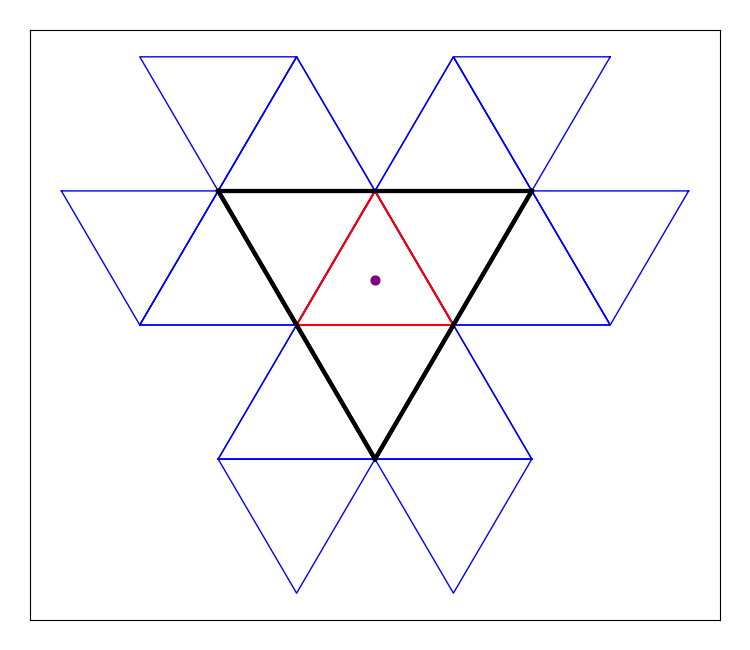
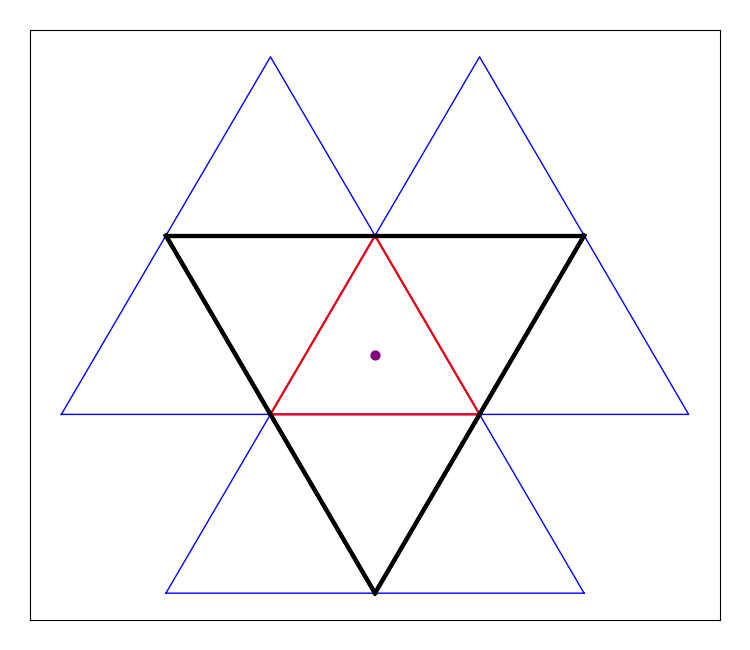
stuff

diff --git a/src/polyhedra.py b/src/polyhedra.py
@@ -29,6 +29,7 @@ class ConvexPolyhderon(Shape):
                             diameter,
                             do_filter=True,
                             intersect_with_face=True,
+                            ignore_points_on_locus=False,
                             ):
         """
         implementaiton of algorithm 3
@@ -40,12 +41,14 @@ class ConvexPolyhderon(Shape):
         vp, bound_paths = self.get_voronoi_points_from_face_paths(p, source_fn, sink_fn, diameter=diameter)
 
         if len(vp) >= 2:  # if there is only one point, the cut locus does not exist on this face
-            relevant_points, relevant_bound_paths, relevant_cells = self.filter_out_points(vp,
-                                                                                           bound_paths,
-                                                                                           self.faces[source_fn],
-                                                                                           self.faces[sink_fn],
-                                                                                           do_filter=do_filter,
-                                                                                           )
+            relevant_points, relevant_bound_paths, relevant_cells = self.filter_out_points(
+                vp,
+                bound_paths,
+                self.faces[source_fn],
+                self.faces[sink_fn],
+                do_filter=do_filter,
+                ignore_points_on_locus=ignore_points_on_locus,
+            )
             if relevant_points is None:
                 return None
             points = np.concatenate(relevant_points, axis=1)
@@ -65,6 +68,7 @@ class ConvexPolyhderon(Shape):
                                    ax=None,
                                    do_filter=True,
                                    diameter=None,
+                                   ignore_points_on_locus=False,
                                    ):
         """
         unfold fixing the source face
@@ -83,6 +87,7 @@ class ConvexPolyhderon(Shape):
                                                            diameter=diameter,
                                                            do_filter=do_filter,
                                                            intersect_with_face=True,
+                                                           ignore_points_on_locus=ignore_points_on_locus,
                                                            )
                 if voronoi_diagram is not None:
                     point_pair_to_segment, (relevant_points, _, _) = voronoi_diagram
@@ -100,6 +105,7 @@ class ConvexPolyhderon(Shape):
                                                            diameter=diameter,
                                                            do_filter=do_filter,
                                                            intersect_with_face=True,
+                                                           ignore_points_on_locus=ignore_points_on_locus,
                                                            )
                 if voronoi_diagram is not None:
                     (point_pair_to_segment,
@@ -238,6 +244,7 @@ class ConvexPolyhderon(Shape):
                                  p_label_shift=(0., 0.),
                                  line_label_dist=.3,
                                  point_names=None,
+                                 ignore_points_on_locus=False,
                                  ):
         # TODO: maybe do the same thing as above method, calculate cut locus for all faces, paste them together
         """
@@ -266,6 +273,7 @@ class ConvexPolyhderon(Shape):
                                                    diameter=diameter,
                                                    do_filter=do_filter,
                                                    intersect_with_face=False,
+                                                   ignore_points_on_locus=ignore_points_on_locus,
                                                    )
         if voronoi_diagram is None:
             # cut locus does not exist on this face
@@ -426,6 +434,7 @@ class ConvexPolyhderon(Shape):
                      do_filter=True,
                      plot_endpoints=False,
                      zorder=None,
+                     ignore_points_on_locus=False,
                      ):
         """
         creates a voronoi plot for the sink face from p on a souce face
@@ -443,7 +452,8 @@ class ConvexPolyhderon(Shape):
                                                    sink_fn=sink_fn,
                                                    diameter=diameter,
                                                    do_filter=do_filter,
-                                                   intersect_with_face=True
+                                                   intersect_with_face=True,
+                                                   ignore_points_on_locus=ignore_points_on_locus,
                                                    )
         if voronoi_diagram is not None:
             point_pair_to_seg, _ = voronoi_diagram
@@ -549,6 +559,7 @@ class ConvexPolyhderon(Shape):
                                 save=None,
                                 do_filter=True,
                                 font_size=None,
+                                ignore_points_on_locus=False,
                                 ):
         """
         :param figsize: initial figure size (inches)
@@ -615,6 +626,7 @@ class ConvexPolyhderon(Shape):
                                           do_filter=do_filter,
                                           plot_endpoints=False,
                                           zorder=10,
+                                          ignore_points_on_locus=ignore_points_on_locus,
                                           )
                         ploot(i, j).set_xlim(xlim)
                         ploot(i, j).set_ylim(ylim)
@@ -679,6 +691,7 @@ class ConvexPolyhderon(Shape):
                            line_label_dist=.3,
                            point_names=None,
                            from_source=False,
+                           ignore_points_on_locus=False,
                            ):
         """
         :param figsize: initial figure size (inches)
@@ -760,6 +773,7 @@ class ConvexPolyhderon(Shape):
                                                     ax=plt.gca(),
                                                     do_filter=do_filter,
                                                     diameter=diameter,
+                                                    ignore_points_on_locus=ignore_points_on_locus,
                                                     )
 
                     plt.xticks([])
@@ -780,6 +794,7 @@ class ConvexPolyhderon(Shape):
                         p_label_shift=p_label_shift,
                         line_label_dist=line_label_dist,
                         point_names=point_names,
+                        ignore_points_on_locus=ignore_points_on_locus,
                     )
                     print('point locations:')
                     for i, (zero, xvec, yvec, p) in enumerate(all_trans_shown):
@@ -825,8 +840,13 @@ class ConvexPolyhderon(Shape):
                             face = face_map(i, j)
                             if face is not None:
                                 xlim, ylim = ploot(i, j).get_xlim(), ploot(i, j).get_ylim()
-                                self.plot_voronoi(self.extra_data['p'], self.extra_data['unwrap_source_fn'], face.name,
-                                                  diameter=diameter, ax=ploot(i, j), do_filter=do_filter)
+                                self.plot_voronoi(self.extra_data['p'],
+                                                  self.extra_data['unwrap_source_fn'], face.name,
+                                                  diameter=diameter,
+                                                  ax=ploot(i, j),
+                                                  do_filter=do_filter,
+                                                  ignore_points_on_locus=ignore_points_on_locus,
+                                                  )
                                 ploot(i, j).set_xlim(xlim)
                                 ploot(i, j).set_ylim(ylim)
                                 if self.extra_data['unwrap_source_fn'] == face.name:
@@ -879,8 +899,14 @@ class ConvexPolyhderon(Shape):
                     face = face_map(i, j)
                     if face is not None:
                         xlim, ylim = ploot(i, j).get_xlim(), ploot(i, j).get_ylim()
-                        self.plot_voronoi(p, source_fn, face.name, diameter=diameter, ax=ploot(i, j),
-                                          do_filter=do_filter)
+                        self.plot_voronoi(p,
+                                          source_fn,
+                                          face.name,
+                                          diameter=diameter,
+                                          ax=ploot(i, j),
+                                          do_filter=do_filter,
+                                          ignore_points_on_locus=ignore_points_on_locus,
+                                          )
                         ploot(i, j).set_xlim(xlim)
                         ploot(i, j).set_ylim(ylim)
             plt.show()
@@ -899,8 +925,15 @@ class ConvexPolyhderon(Shape):
         if show:
             plt.show()
 
-    def plot_faces(self, save_image=None, show=False, figsize=None, legend=lambda i, j: True, voronoi=None,
-                   do_filter=True):
+    def plot_faces(self,
+                   save_image=None,
+                   show=False,
+                   figsize=None,
+                   legend=lambda i, j: True,
+                   voronoi=None,
+                   do_filter=True,
+                   ignore_points_on_locus=False,
+                   ):
         """
         plots all faces of graph
         :param save_image: whether to save the image
@@ -935,8 +968,14 @@ class ConvexPolyhderon(Shape):
                     if voronoi is not None:
                         # ignore_locus_points = self.plot_voronoi(face.name, ploot(i, j))
                         (p, source_fn, diameter) = voronoi
-                        ignore_locus_points = self.plot_voronoi(p, source_fn, face.name, diameter=diameter,
-                                                                ax=ploot(i, j), do_filter=do_filter)
+                        ignore_locus_points = self.plot_voronoi(p,
+                                                                source_fn,
+                                                                face.name,
+                                                                diameter=diameter,
+                                                                ax=ploot(i, j),
+                                                                do_filter=do_filter,
+                                                                ignore_points_on_locus=ignore_points_on_locus,
+                                                                )
                         ploot(i, j).set_xlim(xlim)
                         ploot(i, j).set_ylim(ylim)
 

diff --git a/src/shapes.py b/src/shapes.py
@@ -260,8 +260,7 @@ class Shape:
                 return False
         return True
 
-    def filter_out_points(self, points, bound_paths, source, sink, do_filter=True):
-        # TODO: dont use vornoiplot2d
+    def filter_out_points(self, points, bound_paths, source, sink, do_filter=True, ignore_points_on_locus=False):
         """
         repeatedly makes voronoi complices, looks at relevant points, then filters out points that do not pass through correct faces
         Note: this augments points by placing 4 very distant points that do not affect the relevant section of the complex
@@ -272,6 +271,7 @@ class Shape:
         :param sink: sink face
         :param do_filter: whether to filter the points
                     probably only set to false when surface is not polyhedra (i.e. torus or mirror)
+        :param ignore_points_on_locus: whether to ignore single points on cut locus
         :return: list of points and bound paths that are relevant, augmented by four bounding points that are very far away
         """
 
@@ -313,7 +313,6 @@ class Shape:
             points = np.concatenate(vp, axis=1)
             points = points.T
             # find the cell complex of them
-            # fig, point_to_segments = voronoi_plot_2d(points, ax=None)
             point_to_segments = dict()
             for point_pair, (seg_type, (a, b)) in voronoi_diagram_calc(points=points).items():
                 for pt in point_pair:
@@ -353,7 +352,10 @@ class Shape:
                     continue
                 for a, b in point_to_segments[p_idx]:
                     # if any line of the point's voronoi cell is in face F, we call this point relevant and continue
-                    if sink.line_within_bounds(a.reshape((2, 1)), b.reshape((2, 1))):
+                    if sink.line_within_bounds(a.reshape((2, 1)),
+                                               b.reshape((2, 1)),
+                                               ignore_points=ignore_points_on_locus,
+                                               ):
                         relevant_points.append(point.T)
                         relevant_bound_paths.append(bound_paths[p_idx])
                         relevant_cells.append(point_to_segments[p_idx])

diff --git a/src/face.py b/src/face.py
@@ -188,15 +188,30 @@ class Face:
             return None
         return q
 
-    def line_within_bounds(self, p, q):
+    def line_within_bounds(self, p, q, ignore_points):
         """
         returns if any part of the line p->q is within the face
         :param p: column vector (np array of dimension (self.dimension,1))
         :param q: column vector (np array of dimension (self.dimension,1))
         :return: boolean
         """
-        # enough to test whether either of the endpoints are within the bounds or if the line exits the face
-        return self.within_bounds(p) or self.within_bounds(q) or (self.get_exit_point(p, q - p) is not None)
+        if ignore_points:
+            if not self.within_bounds(p):
+                p = self.get_exit_point(q, p - q)
+            if p is None:
+                # if p is not within bounds and the line q->p does not exit face, this line is not in face
+                return False
+            if not self.within_bounds(q):
+                q = self.get_exit_point(p, q - p)
+            if q is None:
+                return False
+            if q is None:
+                return False
+            # check if the two endpoints are far enough apart
+            return np.linalg.norm(p - q) > self.tol
+        else:
+            # enough to test whether either of the endpoints are within the bounds or if the line exits the face
+            return self.within_bounds(p) or self.within_bounds(q) or (self.get_exit_point(p, q - p) is not None)
 
     def get_ray_within_bounds(self, p, direction):
         """
@@ -229,9 +244,9 @@ class Face:
             return None
         # weird error due to tolerance
         if qp is None:
-            qp=pp
+            qp = pp
         if pp is None:
-            pp=qp
+            pp = qp
         return (pp, qp)
 
     def add_boundary_paired(self, f2, m, b, s, T, si):

diff --git a/symbolic_calculations/octahedron_symbolic.py b/symbolic_calculations/octahedron_symbolic.py
@@ -48,15 +48,13 @@ for i in range(6):
         direction = [exp_simplify(t) for t in direction]
         print('\\item')
         print('$\\ell^{\\{',i,',',j,'\\}}(p) := t \\mapsto ',
-              latexify(start_point),'+', latexify(direction),'t$')
+              latexify(start_point),'+', latexify(direction),'t$.')
 quit()
-
 X = get_all_triple_points(points)
-print(exp_simplify(points))
+print('points')
 for p in exp_simplify(points):
     print(latexify(p))
 print()
-
 for i in range(N):
     j = (i + 1)%N
     print('line L' + str(i) + str(j))
@@ -123,15 +121,16 @@ x05 = line_intersection(right_face, L[0][5])
 print(exp_simplify(x05))
 print(latexify(exp_simplify(x05)))
 print()
-
+print()
+print('triple points')
 for a, b, c in combinations(range(6), 3):
     abc = sorted([a, b, c])
     tup = str((a, b, c))[1:-1]
     print()
-    print('equation of x^{' + tup + '}')
-    print(exp_simplify(X[a][b][c]))
-    print(latexify(exp_simplify(X[a][b][c])))
-    # print('\\item $x^{\{' + tup + '\}}(p)=\n\t' + latexify(exp_simplify(X[a][b][c])) + '$')
+    #print('equation of x^{' + tup + '}')
+    #print(exp_simplify(X[a][b][c]))
+    #print(latexify(exp_simplify(X[a][b][c])))
+    print('\\item $x^{\\{' + tup + '\\}}(p)=\n\t' + latexify(exp_simplify(X[a][b][c])) + '$.')
 
 print('sympy equality solver does not function well, use mathematica or wolfram alpha beyond this point')
 

diff --git a/unfolding.py b/unfolding.py
@@ -5,6 +5,8 @@ PARSER.add_argument("--sink-face-name", action='store', required=False, default=
 
 PARSER.add_argument("--from-source", action='store_true', required=False,
                     help="unfold from source face instead of sink face")
+PARSER.add_argument("--ignore-points", action='store_true', required=False,
+                    help="ignore single points on faces of cut loci, useful for fixing corner cases or repeat paths")
 
 display_group.add_argument("--single-display", action='store_true', required=False,
                            help="display only one path at a time")
@@ -58,4 +60,5 @@ shape.interactive_unfold(track=not args.no_tracking,
                          line_label_dist=args.label_dist_line,
                          point_names=point_names,
                          from_source=args.from_source,
+                         ignore_points_on_locus=args.ignore_points,
                          )

diff --git a/cut_locus.py b/cut_locus.py
@@ -2,6 +2,8 @@ from utils.shape_argparser import *
 
 display_group.add_argument("--center-pt", action='store_true', required=False,
                            help="add center point to faces")
+PARSER.add_argument("--ignore-points", action='store_true', required=False,
+                    help="ignore single points on faces of cut loci, useful for fixing corner cases or repeat paths")
 
 args = parse_args(PARSER)
 shape = shape_from_args(args)
@@ -27,4 +29,5 @@ shape.interactive_vornoi_plot(diameter=args.diameter if args.diameter > 0 else N
                               save=args.save_file,
                               do_filter=do_filter,
                               font_size=args.font_size,
+                              ignore_points_on_locus=args.ignore_points,
                               )

diff --git a/README.md b/README.md
@@ -1,11 +1,11 @@
+[//]: <> (hello)
 # Geodesic Complexity Visualizations
 Visualize relevant features of a polytope consisting of 2-d faces
 (tested with [Python 3.8.10](https://www.python.org/downloads/release/python-3810/))
 
+[//]: <> (python cut_locus.py -s tetra --legend; python unfolding.py -s cube --legend) 
 * **Interactive Cut Locus Visualization:**
-  
   ![](https://github.com/pranavraj575/mitochondria/blob/main/images/tetrahedron/demo_cut_locus.gif)
-  
 * **Unfolding Visualization:**
   
   ![](https://github.com/pranavraj575/mitochondria/blob/main/images/cube/demo_unfold.gif)
@@ -78,7 +78,8 @@ python3 unfolding.py --shape cube
     ```bash
     python3 cut_locus.py --shape tetrahedron
     ```
-    ![](https://github.com/pranavraj575/mitochondria/blob/main/images/tetrahedron/p_(-0.4%2C%20-0.6)_face_3.png)
+    [\\]: <> (python cut_locus.py -s tetra --source 3 --point-x -.5 --point-y -0.86602540378 --save images/tetrahedron/tetra_locus_three.png --height-display 6 --width-display 9 --legend --no-show --font 14)
+    ![](https://github.com/pranavraj575/mitochondria/blob/main/images/tetrahedron/tetra_locus_three.png)
     
   * **Cube**:
     ```bash
@@ -90,7 +91,8 @@ python3 unfolding.py --shape cube
     ```bash
     python3 cut_locus.py --shape octahedron
     ```
-    ![](https://github.com/pranavraj575/mitochondria/blob/main/images/octahedron/p_(0.0649519052838329%2C%200.16250000000000003)_face_1.png)
+    [\\]: <> (python cut_locus.py -s octa --source 6  --point-x 0.45 --point-y .5  --height-display 6 --width-display 12 --font-size 14 --save images\octahedron\unlabeled_locus_tau1.png --legend --no-show)
+    ![](https://github.com/pranavraj575/mitochondria/blob/main/images/octahedron/unlabeled_locus_tau1.png)
     
   * **Dodecahedron**:
     ```bash
